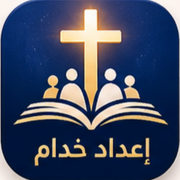
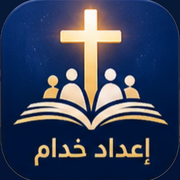
fix(ui-pwa): restore 100% solid pristine emblem, full bleed navy background, and lock modal firmly in viewport v9.5

Changed region(s): [[0.8333, 0.0, 1.0, 1.0], [0.0, 0.0, 0.1667, 1.0]]

diff --git a/public/js/dashboard/dashboard-curriculum.js b/public/js/dashboard/dashboard-curriculum.js
@@ -221,7 +221,9 @@ i += n; k++;
 
 }
 
-state.blocks = state.blocks.filter(function (b) { return b.year !== y; }
+state.blocks = state.blocks.filter(function (b) { return b.year !== y; }).concat(out);
+
+}
 
 // التغذية التلقائية الفورية بالمنهج الكنسي الرسمي الـ 7 مواد في حال كانت القائمة فارغة
 (function autoSeedCurriculum() {
@@ -234,9 +236,6 @@ state.blocks = state.blocks.filter(function (b) { return b.year !== y; }
         } catch(e) {}
     }
 })();
-).concat(out);
-
-}
 
 /* ---------- المُجدول الذكي (الفرقتان معاً) ---------- */
 

diff --git a/public/js/dashboard/dashboard-plan.js b/public/js/dashboard/dashboard-plan.js
@@ -426,7 +426,9 @@ function openEditMasterPlanModal(id) {
         if (e.target === modal) closeEditMasterPlanModal();
     };
 
+    window.scrollTo({ left: 0, behavior: 'instant' });
     document.body.style.overflow = 'hidden';
+    document.documentElement.style.overflow = 'hidden';
     document.body.appendChild(modal);
 }
 
@@ -434,6 +436,7 @@ function closeEditMasterPlanModal() {
     const m = document.getElementById('editMasterPlanModal');
     if (m) m.remove();
     document.body.style.overflow = '';
+    document.documentElement.style.overflow = '';
 }
 
 function saveEditedMasterPlanEvent(id) {

diff --git a/public/servant-dashboard.html b/public/servant-dashboard.html
@@ -10533,8 +10533,8 @@ window.runDisasterRecoveryCheck = runDisasterRecoveryCheck;
 <script src="js/dashboard/dashboard-members.js?v=8.9"></script>
 
 <script src="js/dashboard/dashboard-radar.js?v=8.9"></script>
-<script src="js/dashboard/dashboard-plan.js?v=8.9"></script>
-<script src="js/dashboard/dashboard-curriculum.js?v=8.9"></script>
+<script src="js/dashboard/dashboard-plan.js?v=9.5"></script>
+<script src="js/dashboard/dashboard-curriculum.js?v=9.0"></script>
 
 <script src="js/dashboard/dashboard-navigation.js?v=8.9"></script>
 

diff --git a/public/sw.js b/public/sw.js
@@ -10,7 +10,7 @@
  * 5. طابور مزامنة خلفي ذكي يدعم الانتقال السلس بين الأونلاين والأوفلاين.
  */
 
-const CACHE_NAME = 'khedmety-ultra-v9.2'; // Centered plan edit modal, responsive masterPlan table, canonical blocks auto-seed
+const CACHE_NAME = 'khedmety-ultra-v9.5'; // Restored pristine 100% solid emblem icons & centered plan edit modal
 
 // قائمة الأصول الأساسية للتثبيت المسبق (App Shell & Static Assets)
 const PRECACHE_ASSETS = [
